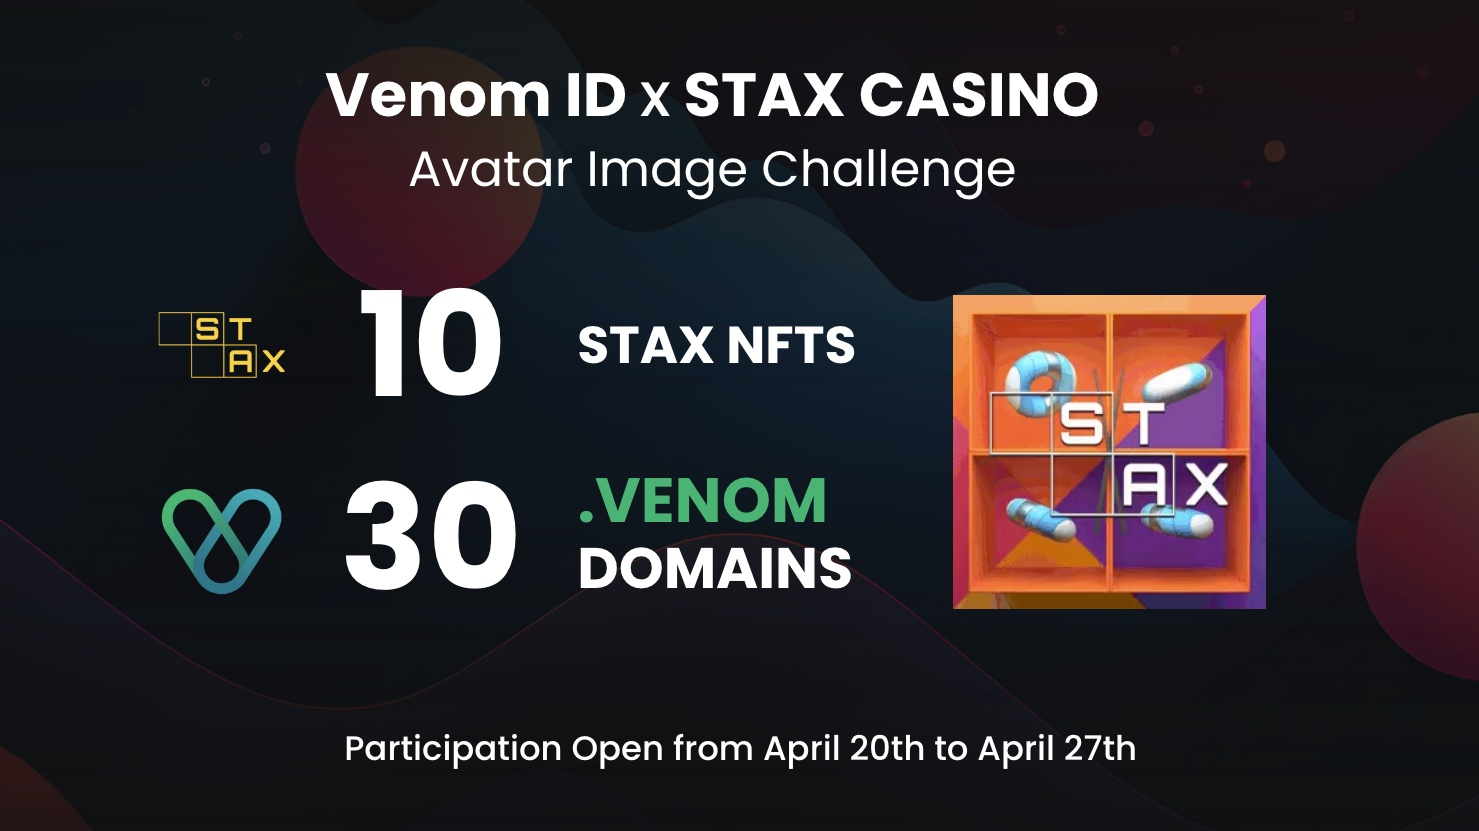
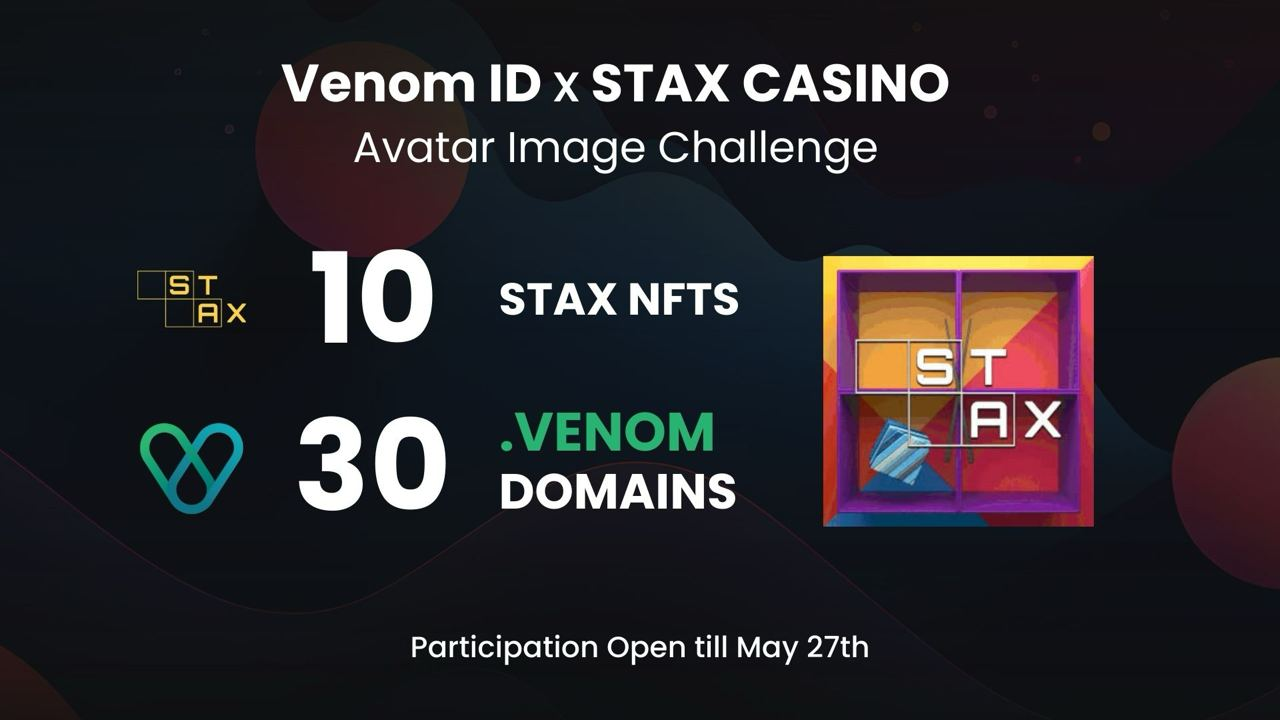
updating og image

diff --git a/components/manage/AddNFTAvatar.tsx b/components/manage/AddNFTAvatar.tsx
@@ -50,6 +50,7 @@ import {
   OPENSEA_URL,
   VENOMART_NFT,
   VENTORY_NFT,
+  WINNERS,
   ZERO_ADDRESS,
 } from 'core/utils/constants';
 import { Avatar } from 'components/Profile';
@@ -412,22 +413,22 @@ export default function AddNFTAvatar({ defaultType, key }: Props) {
           <DrawerHeader gap={3} display={'flex'} flexDirection={notMobile ? 'row' : 'column'}>
             <HStack gap={2} flexGrow={1}>
               <Text flexGrow={1}>Pick {type === 'avatar' ? 'Avatar' : 'NFT'}</Text>
-              {/* {type === 'avatar' && (
+              {type === 'avatar' && (
                 <Button
                   aria-label="venom-punks-nfts"
                   onClick={() => {
-                    setAvatar(String("https://ipfs.io/ipfs/QmdwW8egQuQAYsEYgdz1coTExinMrjfheAYHm4PxX6stJB/punks.venom.png"));
+                    setAvatar(String(WINNERS['staxavatarchallenge'].prize_img));
                     //setEditingAvatarFile(undefined);
                     onClose();
                   }}
                   gap={2}>
-                  {notMobile ? 'Venom-Punks.Com Avatar' : ''}{' '}
+                  {notMobile ? 'STAX NFT Avatar' : ''}{' '}
                   <LinkIcon
-                    type="https://ipfs.io/ipfs/QmdwW8egQuQAYsEYgdz1coTExinMrjfheAYHm4PxX6stJB/punks.venom.png"
+                    type={String(WINNERS['staxavatarchallenge'].prize_img)}
                     size={'md'}
                   />
                 </Button>
-              )} */}
+              )}
               <Button aria-label="change-view" onClick={() => setListView(!listView)} gap={2}>
                 {notMobile ? (listView ? 'Bigger' : 'Smaller') : ''}{' '}
                 {listView ? <RiLayoutGridLine size={'24'} /> : <RiGridLine size={'24'} />}
